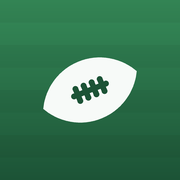
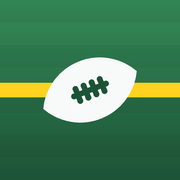
Put the first-down line on the mark
The ball now lies on the yellow line the site uses for the side to root
for. The line is drawn thicker in favicons, where a thin one disappears.

Changed region(s): [[0.6944, 0.4444, 1.0, 0.5556], [0.0, 0.4444, 0.3056, 0.5556]]

diff --git a/tools/icons.py b/tools/icons.py
@@ -1,4 +1,5 @@
-"""Draw the site mark: a football on a field-green tile.
+"""Draw the site mark: a football on a field-green tile, lying on the yellow
+first-down line the site uses for the side to root for.
 
 Run ``python tools/icons.py`` to rewrite logo.svg and every icon the pages
 ask for. Needs Pillow, which the site itself does not. The SVG and the PNGs
@@ -27,6 +28,9 @@ TOP = (0x35, 0x8a, 0x58)
 BOTTOM = (0x1c, 0x53, 0x36)
 STRIPE = (0x00, 0x00, 0x00, 11)
 WHITE = (0xf7, 0xfa, 0xf8)
+LINE = (0xff, 0xd2, 0x1f)
+LINE_W = 5.2        # the first-down line's thickness
+LINE_W_SMALL = 8.0  # thicker in a favicon, or it vanishes
 LACE = (0x1c, 0x53, 0x36)
 
 
@@ -78,6 +82,9 @@ def draw(size, rounded=True):
             ds.rectangle([0, round(i * band), px, round((i + 1) * band)],
                          fill=STRIPE)
         field = Image.alpha_composite(field, stripes)
+    d = ImageDraw.Draw(field)
+    half = (LINE_W_SMALL if small else LINE_W) * unit / 2
+    d.rectangle([0, round(px / 2 - half), px, round(px / 2 + half)], fill=LINE + (255,))
 
     mask = Image.new("L", (px, px), 0)
     md = ImageDraw.Draw(mask)
@@ -127,6 +134,8 @@ SVG = f"""<svg xmlns="http://www.w3.org/2000/svg" viewBox="0 0 64 64" role="img"
       <rect y="0" width="64" height="8"/><rect y="16" width="64" height="8"/>
       <rect y="32" width="64" height="8"/><rect y="48" width="64" height="8"/>
     </g>
+    <rect y="{32 - LINE_W / 2:g}" width="64" height="{LINE_W:g}"
+          fill="#{LINE[0]:02x}{LINE[1]:02x}{LINE[2]:02x}"/>
   </g>
   <g transform="translate(32 32) rotate({TILT:g})">
     <path d="{{ball}}" fill="#{WHITE[0]:02x}{WHITE[1]:02x}{WHITE[2]:02x}"/>
